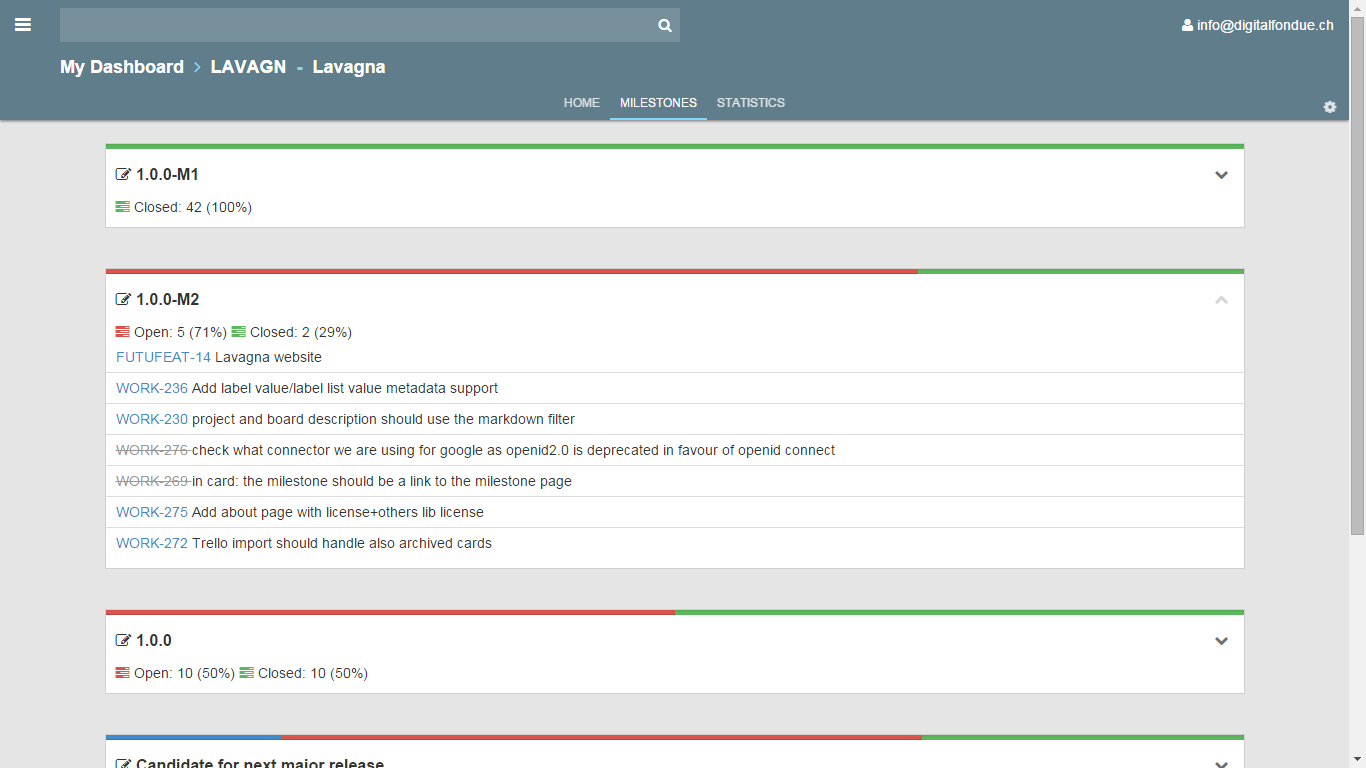
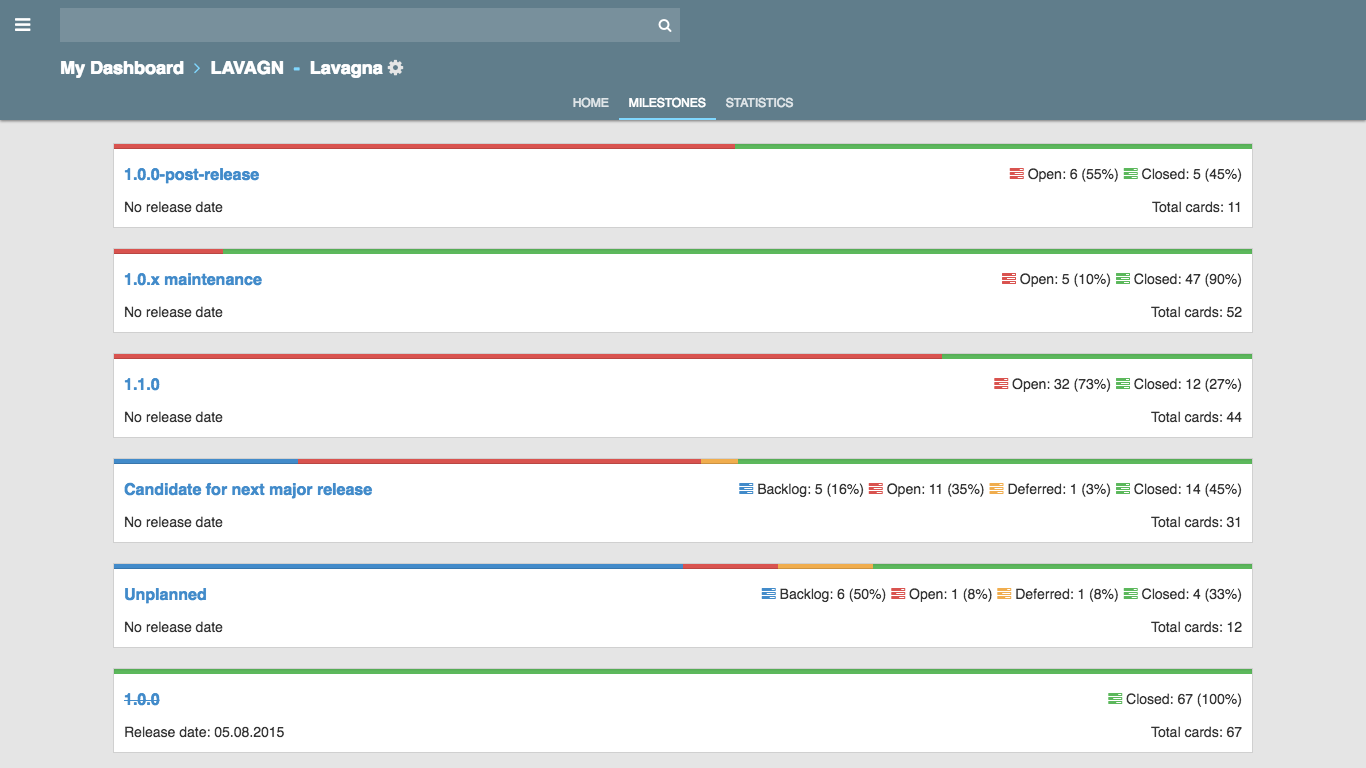
update for release 1.0.7

diff --git a/download/index.html b/download/index.html
@@ -42,158 +42,15 @@
     <div class="site-content">
 	    <div class="container main-content main-content-doc">
 	      <h2>Latest release</h2>
-	      <p>The latest release is lavagna 1.0.6.2 (2016-03-28). See on <a href="https://github.com/digitalfondue/lavagna/releases/tag/lavagna-1.0.6.2">github</a>.</p>
-	      <div><a href="https://github.com/digitalfondue/lavagna/releases/download/lavagna-1.0.6.2/lavagna-1.0.6.2-distribution.zip">Download zip of Lavagna 1.0.6.2</a></div>
+	      <p>The latest release is lavagna 1.0.7 (2016-08-28). View it on <a href="https://github.com/digitalfondue/lavagna/releases/tag/lavagna-1.0.7">github</a>.</p>
+	      <div><a href="https://github.com/digitalfondue/lavagna/releases/download/lavagna-1.0.7/lavagna-1.0.7-distribution.zip">Download zip of Lavagna 1.0.7</a></div>
 	      <h2>Changelog</h2>
-	      <h3 class="roadmap">Lavagna 1.0.6.2 (2016-03-28)</h3>
+	      <h3 class="roadmap">Lavagna 1.0.7 (2016-08-28)</h3>
 	      <ul class="release">
- 	          <li>Fix stomp-client unsubscription mechanism
             <li>
-	            <span><a href="https://github.com/digitalfondue/lavagna/compare/lavagna-1.0.6.1...lavagna-1.0.6.2">Changelog</a></span>
-	          </li>
-        </ul>
-	      <h3 class="roadmap">Lavagna 1.0.6.1 (2016-03-25)</h3>
-	      <ul class="release">
- 	          <li>Clone card functionality
-            <li>Milestones can have a release date
-            <li>misc. minor UI/UX improvements
-            <li>improved performances
-            <li>updated libraries
-	          <li>
-	          Minor UI/UX improvements
-	          </li>
-	          <li>
-	            <span><a href="https://github.com/digitalfondue/lavagna/compare/lavagna-1.0.5.2...lavagna-1.0.6.1">Changelog</a></span>
-	          </li>
-	      </ul>
-        <h3 class="roadmap">Lavagna 1.0.5.2 (2016-01-12)</h3>
-	      <ul class="release">
-	          <li>
-	          Fix file upload issue when a user don't have a global READ role.
-	          </li>
-	          <li>
-	          Minor UI/UX improvements
-	          </li>
-	          <li>
-	            <span><a href="https://github.com/digitalfondue/lavagna/compare/lavagna-1.0.5.1...lavagna-1.0.5.2">Changelog</a></span>
-	          </li>
-	      </ul>
-        <h3 class="roadmap">Lavagna 1.0.5.1 (2015-11-16)</h3>
-	      <ul class="release">
-	          <li>
-	          Fix XSS issue in the file upload functionality (require an authenticated user).
-	          </li>
-	          <li>
-	            <span><a href="https://github.com/digitalfondue/lavagna/compare/lavagna-1.0.5...lavagna-1.0.5.1">Changelog</a></span>
-	          </li>
-	      </ul>
-	      <h3 class="roadmap">Lavagna 1.0.5 (2015-11-07)</h3>
-	      <ul class="release">
-	          <li>
-	            Small UI/UX improvements.
-	            <ul>
-	              <li>Change due date color based on the current date
-	              <li>Card label: on mouse hover show the card name
-	              <li>Email notification: now the user can choose to receive only changes made by other users
-              </ul>
-	          </li>
-	          <li>
-	            <span><a href="https://github.com/digitalfondue/lavagna/compare/lavagna-1.0.4.1...lavagna-1.0.5">Changelog</a></span>
-	          </li>
-	      </ul>
-	      <h3 class="roadmap">Lavagna 1.0.4.1 (2015-10-19)</h3>
-	      <ul class="release">
-	          <li>
-	            Update libraries (<a href="https://spring.io/blog/2015/10/15/spring-framework-4-2-2-4-1-8-and-3-2-15-available-now">spring framework</a> for security issue fix)
-	          </li>
-	          <li>
-	            <span><a href="https://github.com/digitalfondue/lavagna/compare/lavagna-1.0.4...lavagna-1.0.4.1">Changelog</a></span>
-	          </li>
-	      </ul>
-	      <h3 class="roadmap">Lavagna 1.0.4 (2015-09-15)</h3>
-	      <ul class="release">
-	          <li>
-	            Support Gitlab.com and self-hosted instances as a login provider
-	          </li>
-	          <li>
-	            Small fixes and updates
-	          </li>
-	          <li>
-	            <span><a href="https://github.com/digitalfondue/lavagna/compare/lavagna-1.0.3...lavagna-1.0.4">Changelog</a></span>
-	          </li>
-	      </ul>	      
-	      <h3 class="roadmap">Lavagna 1.0.3 (2015-09-01)</h3>
-	      <ul class="release">
-	          <li>
-	            Add ics feed support
-	          </li>
-	          <li>
-	            Small fixes and updates
-	          </li>
-	          <li>
-	            <span><a href="https://github.com/digitalfondue/lavagna/compare/lavagna-1.0.2...lavagna-1.0.3">Changelog</a></span>
-	          </li>
-	      </ul>	      
-	      <h3 class="roadmap">Lavagna 1.0.2 (2015-08-14)</h3>
-	      <ul class="release">
-	          <li>
-	              <span>Fix issue <a href="https://github.com/digitalfondue/lavagna/issues/12">#12</a> found on tomcat 7 and 8</span>
-	          </li>
-	          <li>
-	            <span><a href="https://github.com/digitalfondue/lavagna/compare/lavagna-1.0.1...lavagna-1.0.2">Changelog</a></span>
-	          </li>
-	      </ul>
-	      <h3 class="roadmap">Lavagna 1.0.1 (2015-08-14)</h3>
-	      <ul class="release">
-	          <li>
-	              <span>Small non critical fixes.</span>
-	          </li>
-	          <li>
-	            <span><a href="https://github.com/digitalfondue/lavagna/compare/lavagna-1.0...lavagna-1.0.1">Changelog</a></span>
-	          </li>
-	      </ul>
-	      <h3 class="roadmap">Lavagna 1.0 (2015-08-05)</h3>
-	      <ul class="release">
-	          <li>
-	              <span>Stable release.</span>
-	          </li>
-            <li>
-	              <span>Documentation.</span>
-	          </li>
-            <li>
-	              <span>Bugfixes and cleanup.</span>
-	          </li>
-	          <li>
-	            <span><a href="https://github.com/digitalfondue/lavagna/compare/lavagna-1.0-M3...lavagna-1.0">Changelog</a></span>
-	          </li>
-	      </ul>
-	      <h3 class="roadmap">Lavagna 1.0-M3 (2015-07-17)</h3>
-	      <ul class="release">
-	          <li>
-	              <span>Fixed ui/ux issues.</span>
-	          </li>
-            <li>
-	              <span>Initial support for using lavagna as a windows service.</span>
-	          </li>
-	          <li>
-	            <span><a href="https://github.com/digitalfondue/lavagna/compare/lavagna-1.0-M2...lavagna-1.0-M3">Changelog</a></span>
-	          </li>
-	      </ul>
-	      <h3 class="roadmap">Lavagna 1.0-M2 (2015-07-13)</h3>
-	      <ul class="release">
-	          <li>
-	              <span>First release on maven central. Milestone 2.</span>
-	          </li>
-            <li>
-	            <span><a href="https://github.com/digitalfondue/lavagna/compare/lavagna-1.0-M1...lavagna-1.0-M2">Changelog</a></span>
-	          </li>
-	      </ul>
-	      <h3 class="roadmap">Lavagna 1.0-M1 (2015-01-07)</h3>
-	      <ul class="release">
-	          <li>
-	              <span>First public release. Milestone 1.</span>
-	          </li>
-	      </ul>
+	            <span><a href="https://github.com/digitalfondue/lavagna/blob/master/CHANGELOG.md">Check out the full changelog on Github</a></span>
+	        </li>
+          </ul>
 	    </div>
     
 </div>

diff --git a/index.html b/index.html
@@ -44,7 +44,7 @@
 	              <div>
 	                <h1 class="hero-heading">Lavagna is an open-source issue/project management tool designed for small teams. Lightweight, pure Java, easy to install, easy to use.</h1>
 	                <a class="button github-button" href="https://github.com/digitalfondue/lavagna"><i class="fa fa-2x fa-github"></i>View on github</a>
-	                <a class="button download-button" href="download">Download latest release: 1.0.6.2</a>
+	                <a class="button download-button" href="download">Download latest release: 1.0.7</a>
 	              </div>
 	            </div>
 	          </div>
@@ -85,6 +85,7 @@
 	          <div class="carousel">
 	            <div><a class="group-2" href="images/lavagna-project.png"><img class="u-max-full-width app-img" src="images/thumb/lavagna-project.png"></a></div>
 	            <div><a class="group-2" href="images/lavagna-milestones.png"><img class="u-max-full-width app-img" src="images/thumb/lavagna-milestones.png"></a></div>
+	            <div><a class="group-2" href="images/lavagna-milestone.png"><img class="u-max-full-width app-img" src="images/thumb/lavagna-milestone.png"></a></div>
  	            <div><a class="group-2" href="images/lavagna-stat-1.png"><img class="u-max-full-width app-img" src="images/thumb/lavagna-stat-1.png"></a></div>
  	            <div><a class="group-2" href="images/lavagna-stat-2.png"><img class="u-max-full-width app-img" src="images/thumb/lavagna-stat-2.png"></a></div>
  	            <div><a class="group-2" href="images/lavagna-stat-3.png"><img class="u-max-full-width app-img" src="images/thumb/lavagna-stat-3.png"></a></div>

diff --git a/roadmap/index.html b/roadmap/index.html
@@ -107,6 +107,10 @@
 	                      <span class="feature done">MySQL support</span>
 	                      <span class="milestone">1.0-M1</span>
 	                  </li>
+                      <li>
+	                      <span class="feature done">MariaDB support</span>
+	                      <span class="milestone">1.0.7</span>
+	                  </li>
 	                  <li>
 	                      <span class="feature done">PosgreSQL support</span>
 	                      <span class="milestone">1.0-M1</span>
